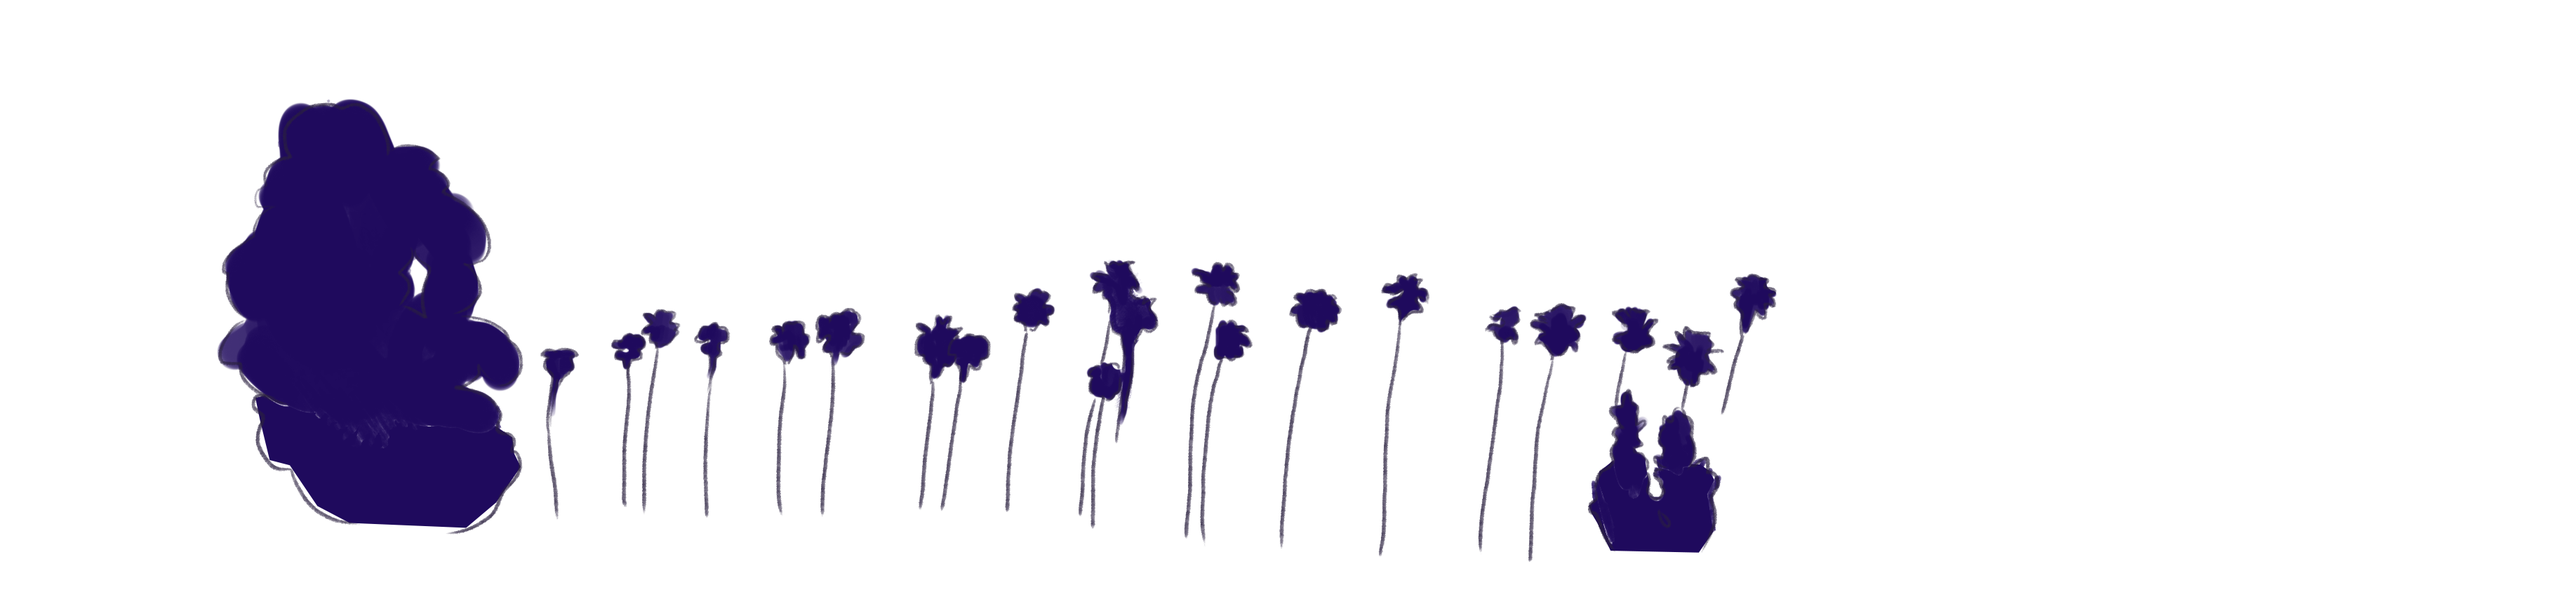
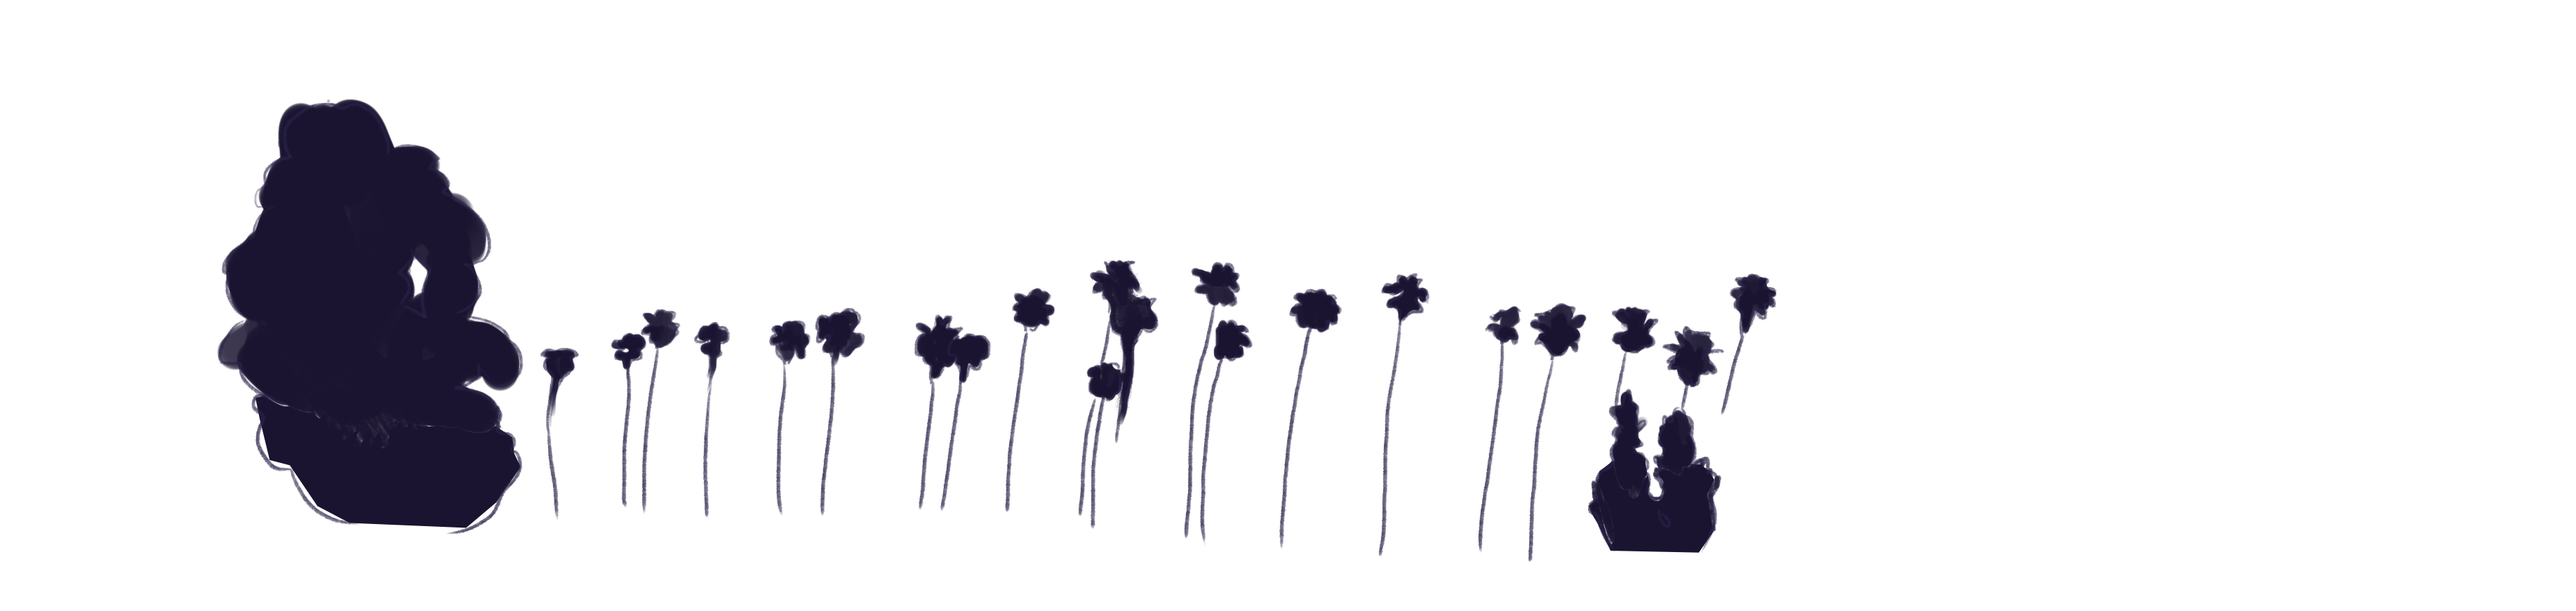
better colors

Changed region(s): [[0.0621, 0.155, 0.4348, 0.868], [0.3727, 0.434, 0.7142, 0.62], [0.6211, 0.651, 0.6832, 0.899]]

diff --git a/styles/style.css b/styles/style.css
@@ -12,7 +12,8 @@ body.sunrise{
 }
 
 body.daytime{
-	background-image: linear-gradient(#E4EEFF, #FFEAEA);	
+	background-image: linear-gradient(#7CACFF 20%, #FCFFF5);
+	color: #3c3b59;
 }
 
 body.sunset{
@@ -43,6 +44,11 @@ a{color: #51486f;}
 body.nighttime a:hover,
 body.nighttime a:visited,
 body.nighttime a{color: white;}
+
+
+body.daytime a:hover,
+body.daytime a:visited,
+body.daytime a{color: #3c3b59}
 
 h1{
 	font-weight: 600;
@@ -93,6 +99,15 @@ body.nighttime .la-left{
 
 body.nighttime .la-mountains{
 	background-image: url("../assets/mountains-night.png");
+}
+
+
+body.daytime .la-mountains{
+	background-image: url("../assets/mountains-day.png");
+	opacity: .6;
+}
+body.daytime .la-left{
+	background-image: url("../assets/palm-trees-day.png");
 }
 
 .la-right{
